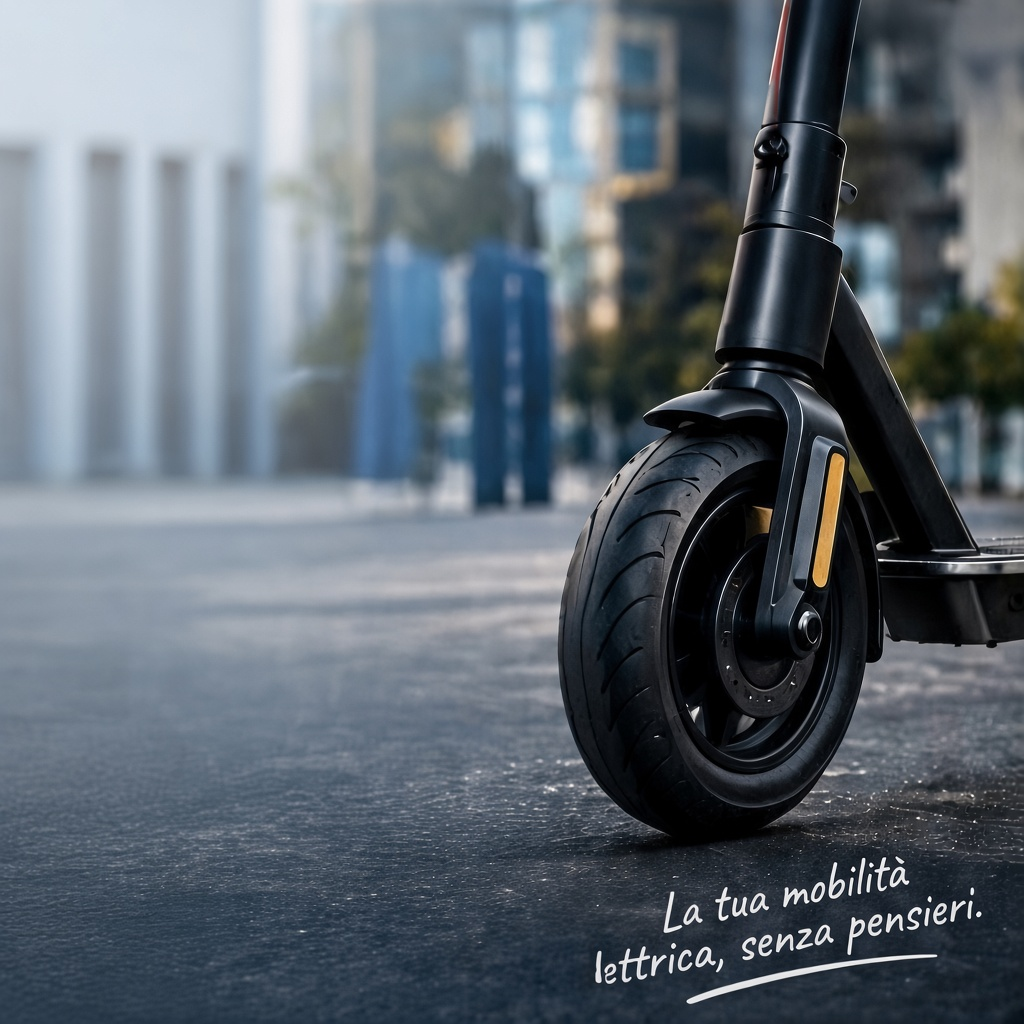
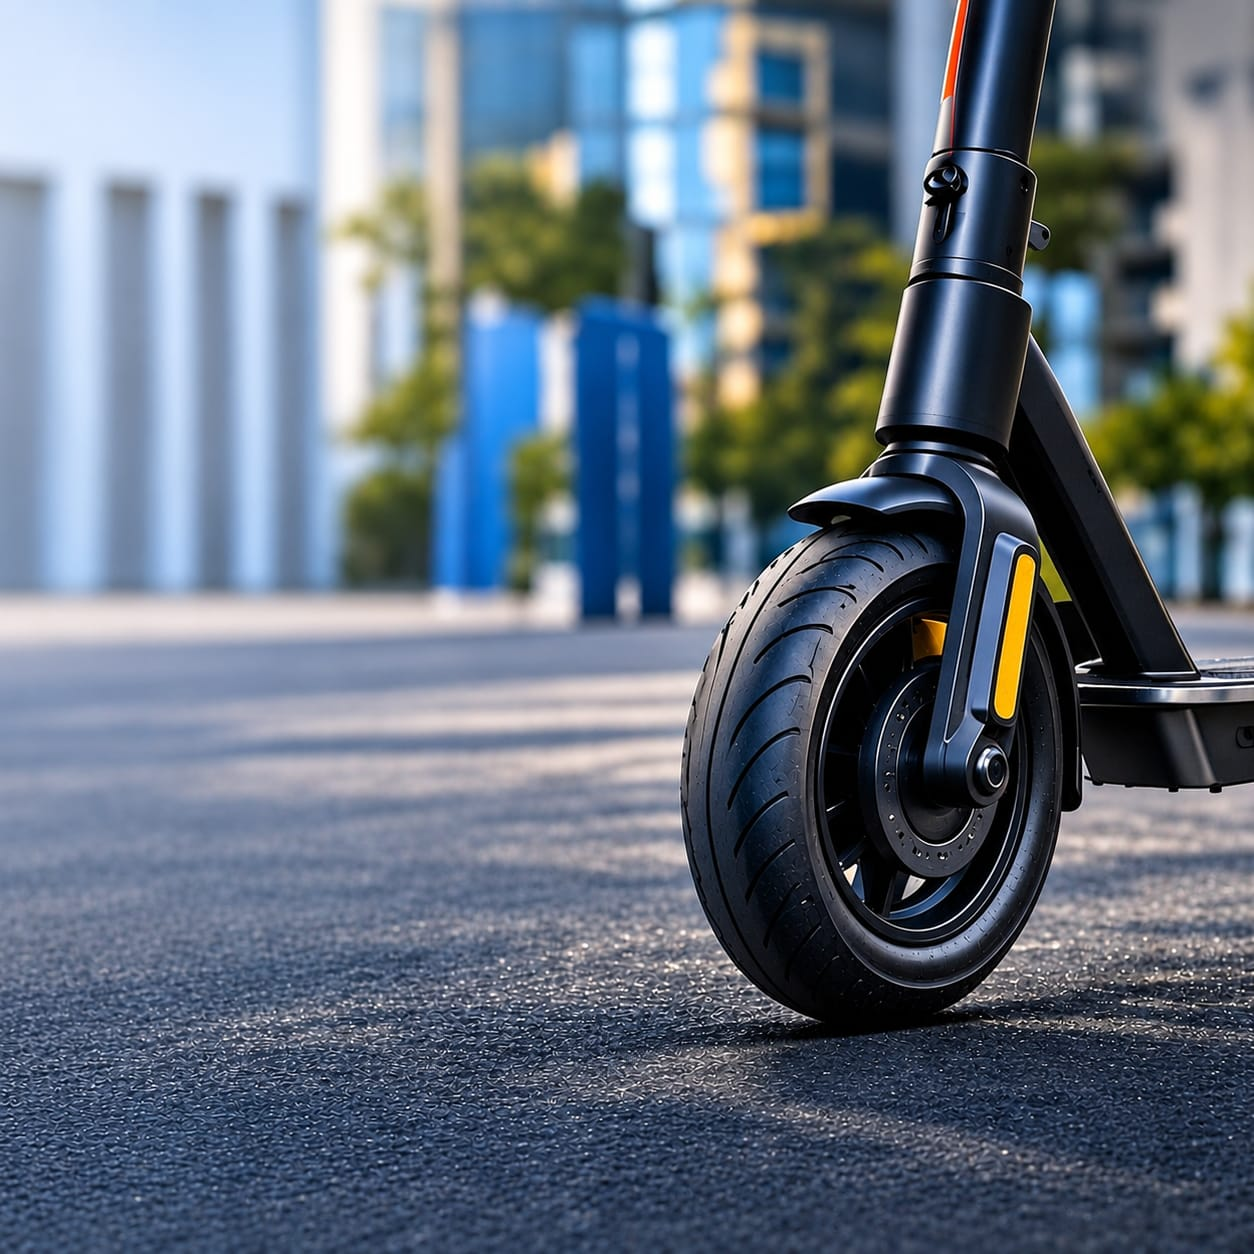
Hero: new photo, softer colors, handwritten caption as text

diff --git a/src/styles/global.css b/src/styles/global.css
@@ -167,7 +167,16 @@ a { color: var(--accent); }
 }
 .hero h1 { font-size: clamp(2rem, 4.8vw, 3.25rem); }
 /* foto dell'hero quadrata (la foto è già quadrata: nessun ritaglio) */
-.hero-photo.hero-photo-full { aspect-ratio: 1; object-fit: cover; object-position: 50% 50%; }
+.hero-photo.hero-photo-full { aspect-ratio: 1; object-fit: cover; object-position: 50% 50%; filter: saturate(.72); }   /* colori più tenui */
+/* scritta a mano sopra la foto dell'hero, in basso a destra */
+.hero-figure { position: relative; margin: 0; }
+.hero-script {
+  position: absolute; right: 7%; bottom: 9%; transform: rotate(-5deg); transform-origin: right bottom;
+  font: 600 clamp(1.35rem, 2.7vw, 2rem)/1.05 Caveat, cursive; color: #fff; text-align: left;
+  text-shadow: 0 2px 10px rgb(0 0 0 / .45); pointer-events: none;
+}
+.hero-script svg { display: block; width: 88%; height: 10px; margin: 4px 0 0 8%; overflow: visible; }
+.hero-script path { fill: none; stroke: #fff; stroke-width: 3; stroke-linecap: round; filter: drop-shadow(0 2px 4px rgb(0 0 0 / .4)); }
 .cta-row { display: flex; flex-wrap: wrap; gap: 12px; margin: 28px 0; }
 .hero .badges { margin-top: 40px; }   /* spazio tra il testo e le tre spunte */
 .hero-text h1 { margin-bottom: 36px; }   /* spazio tra il titolo e il testo */
